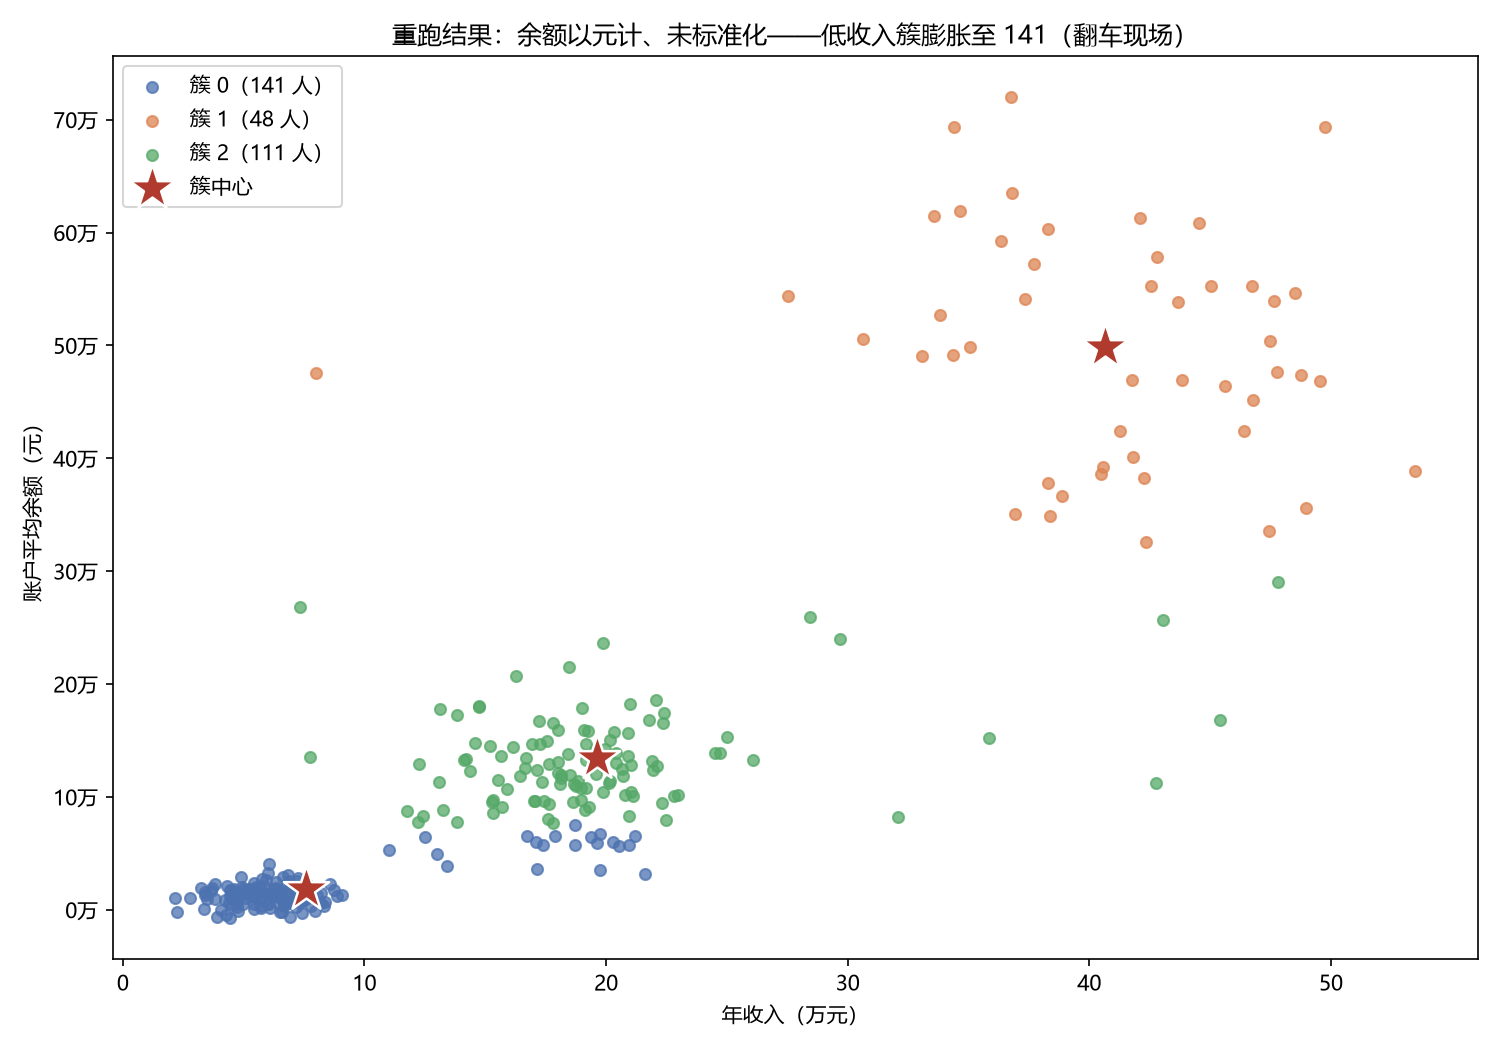
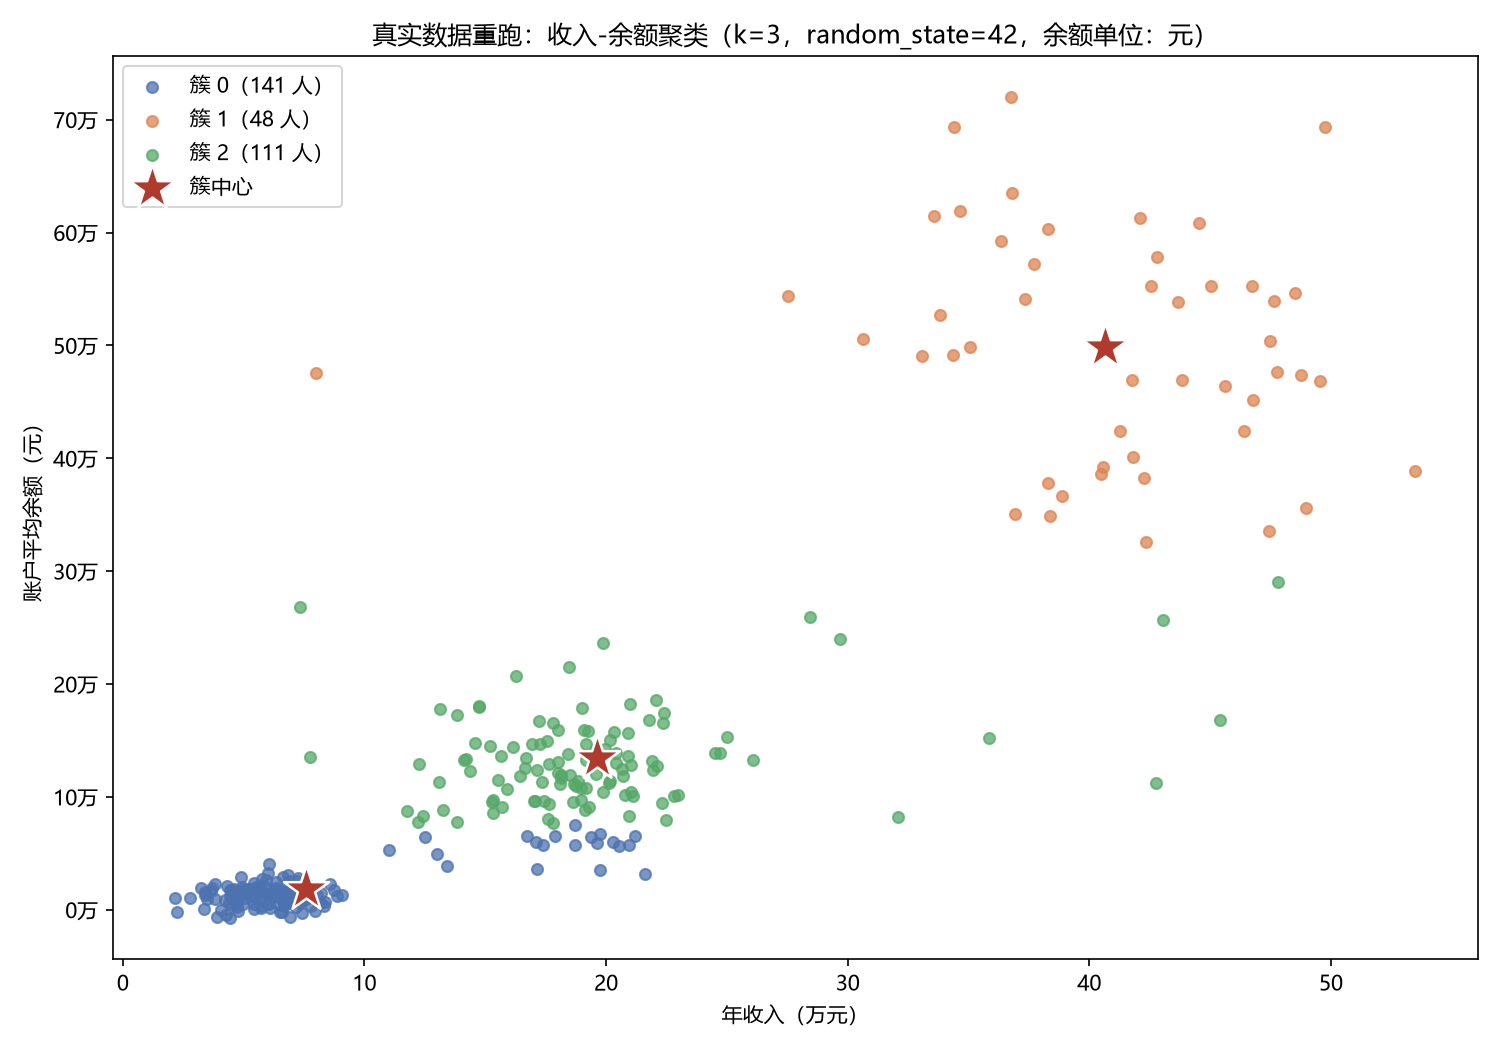
完成 lesson09 聚类作业：案例复现+自主实践+独立研究全部脚本与报告

Changed region(s): [[0.2453, 0.0, 0.7973, 0.061]]

diff --git a/progress.md b/progress.md
@@ -1,6 +1,6 @@
 # 进度报告 · 第 9 次课：聚类客户分群
 
-学号：＿＿＿＿ 姓名：＿＿＿＿ 日期：11/13 ｜ 提交到仓库 lesson09-cluster 的 progress.md
+学号：＿＿20251030226＿＿ 姓名：＿龙羲玥＿＿＿ 日期：11/13 ｜ 提交到仓库 lesson09-cluster 的 progress.md
 
 ## 1. 检查点完成情况
 
